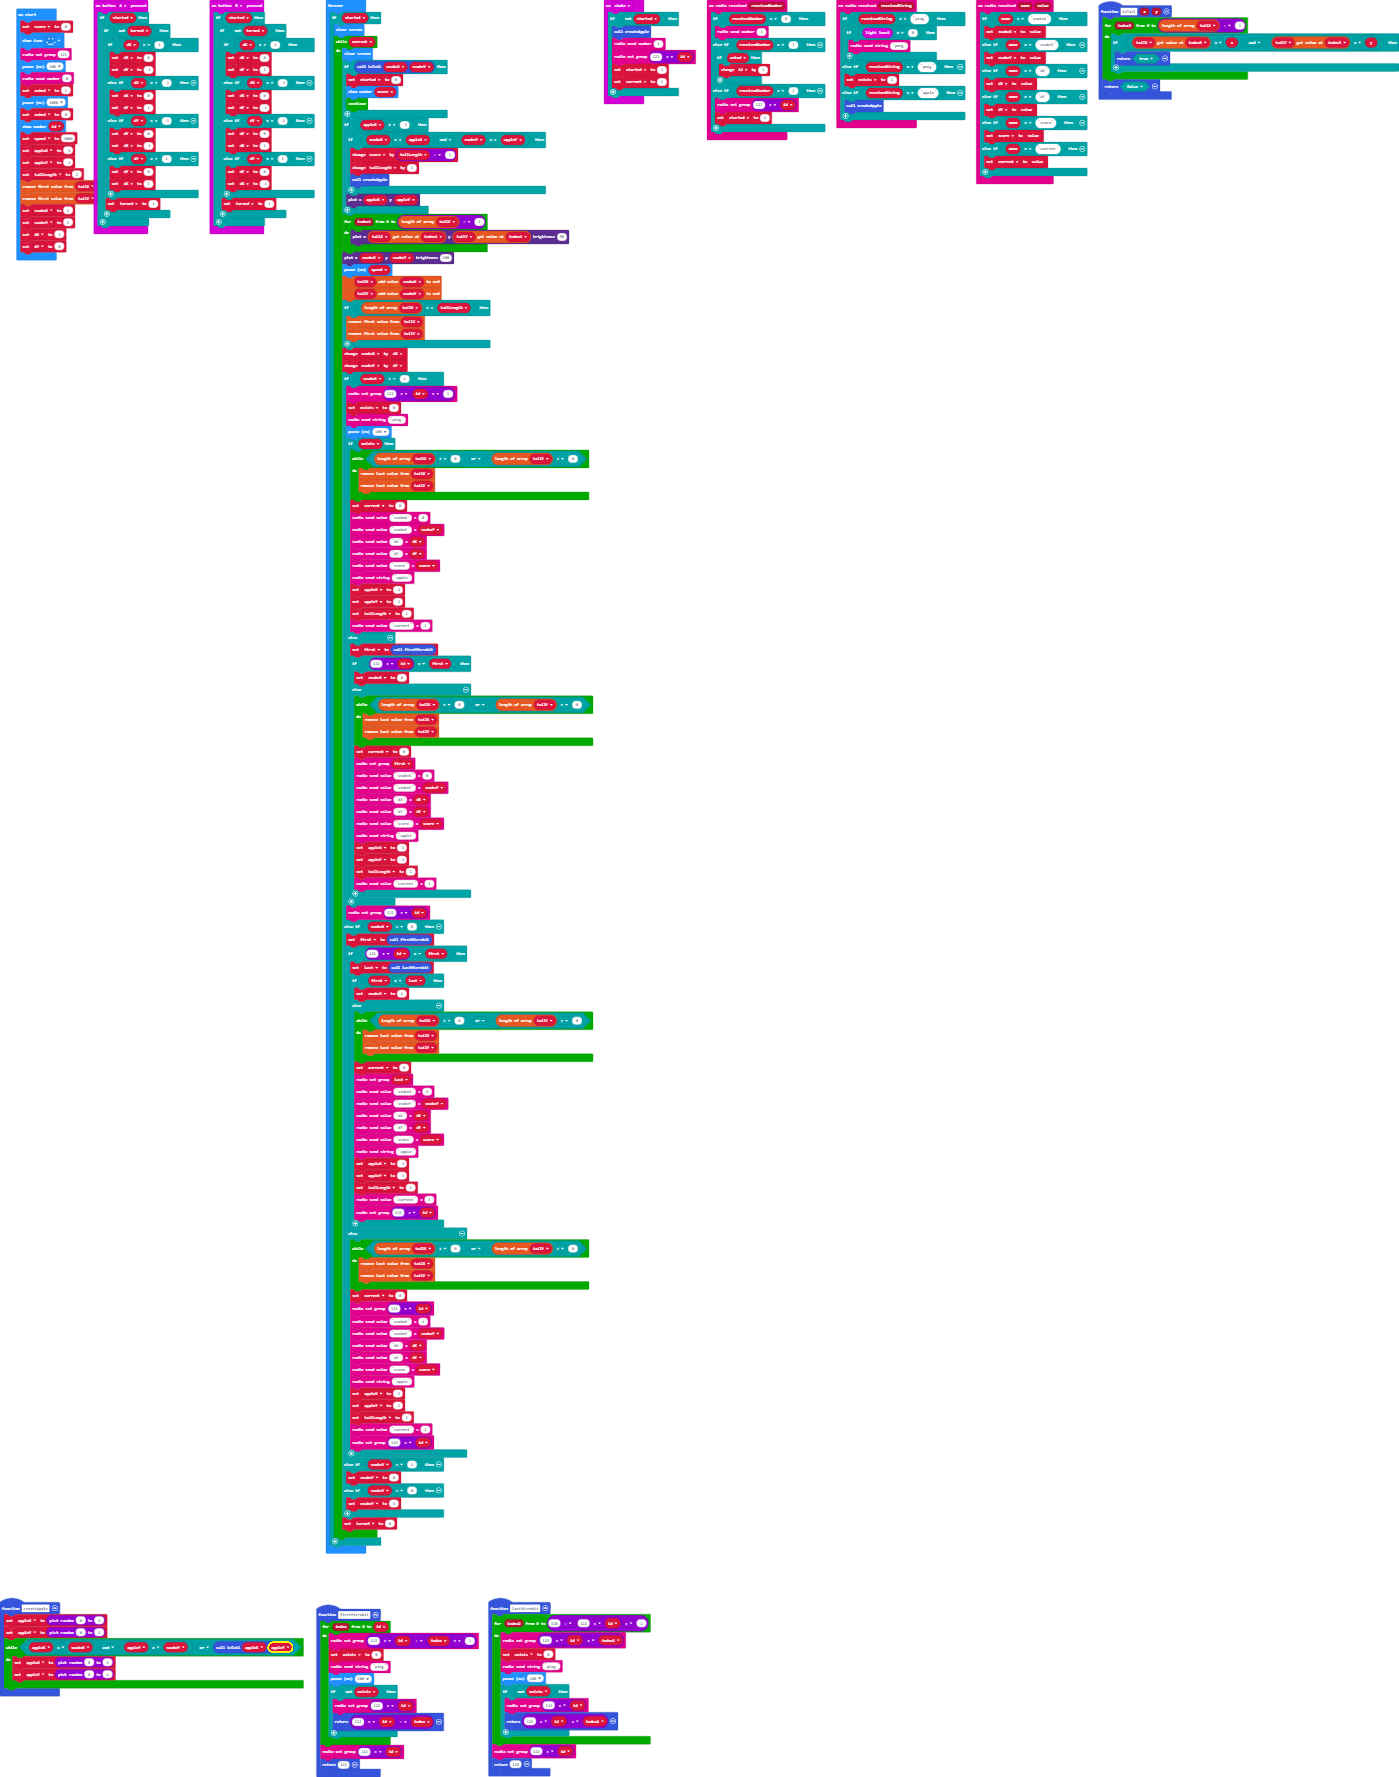
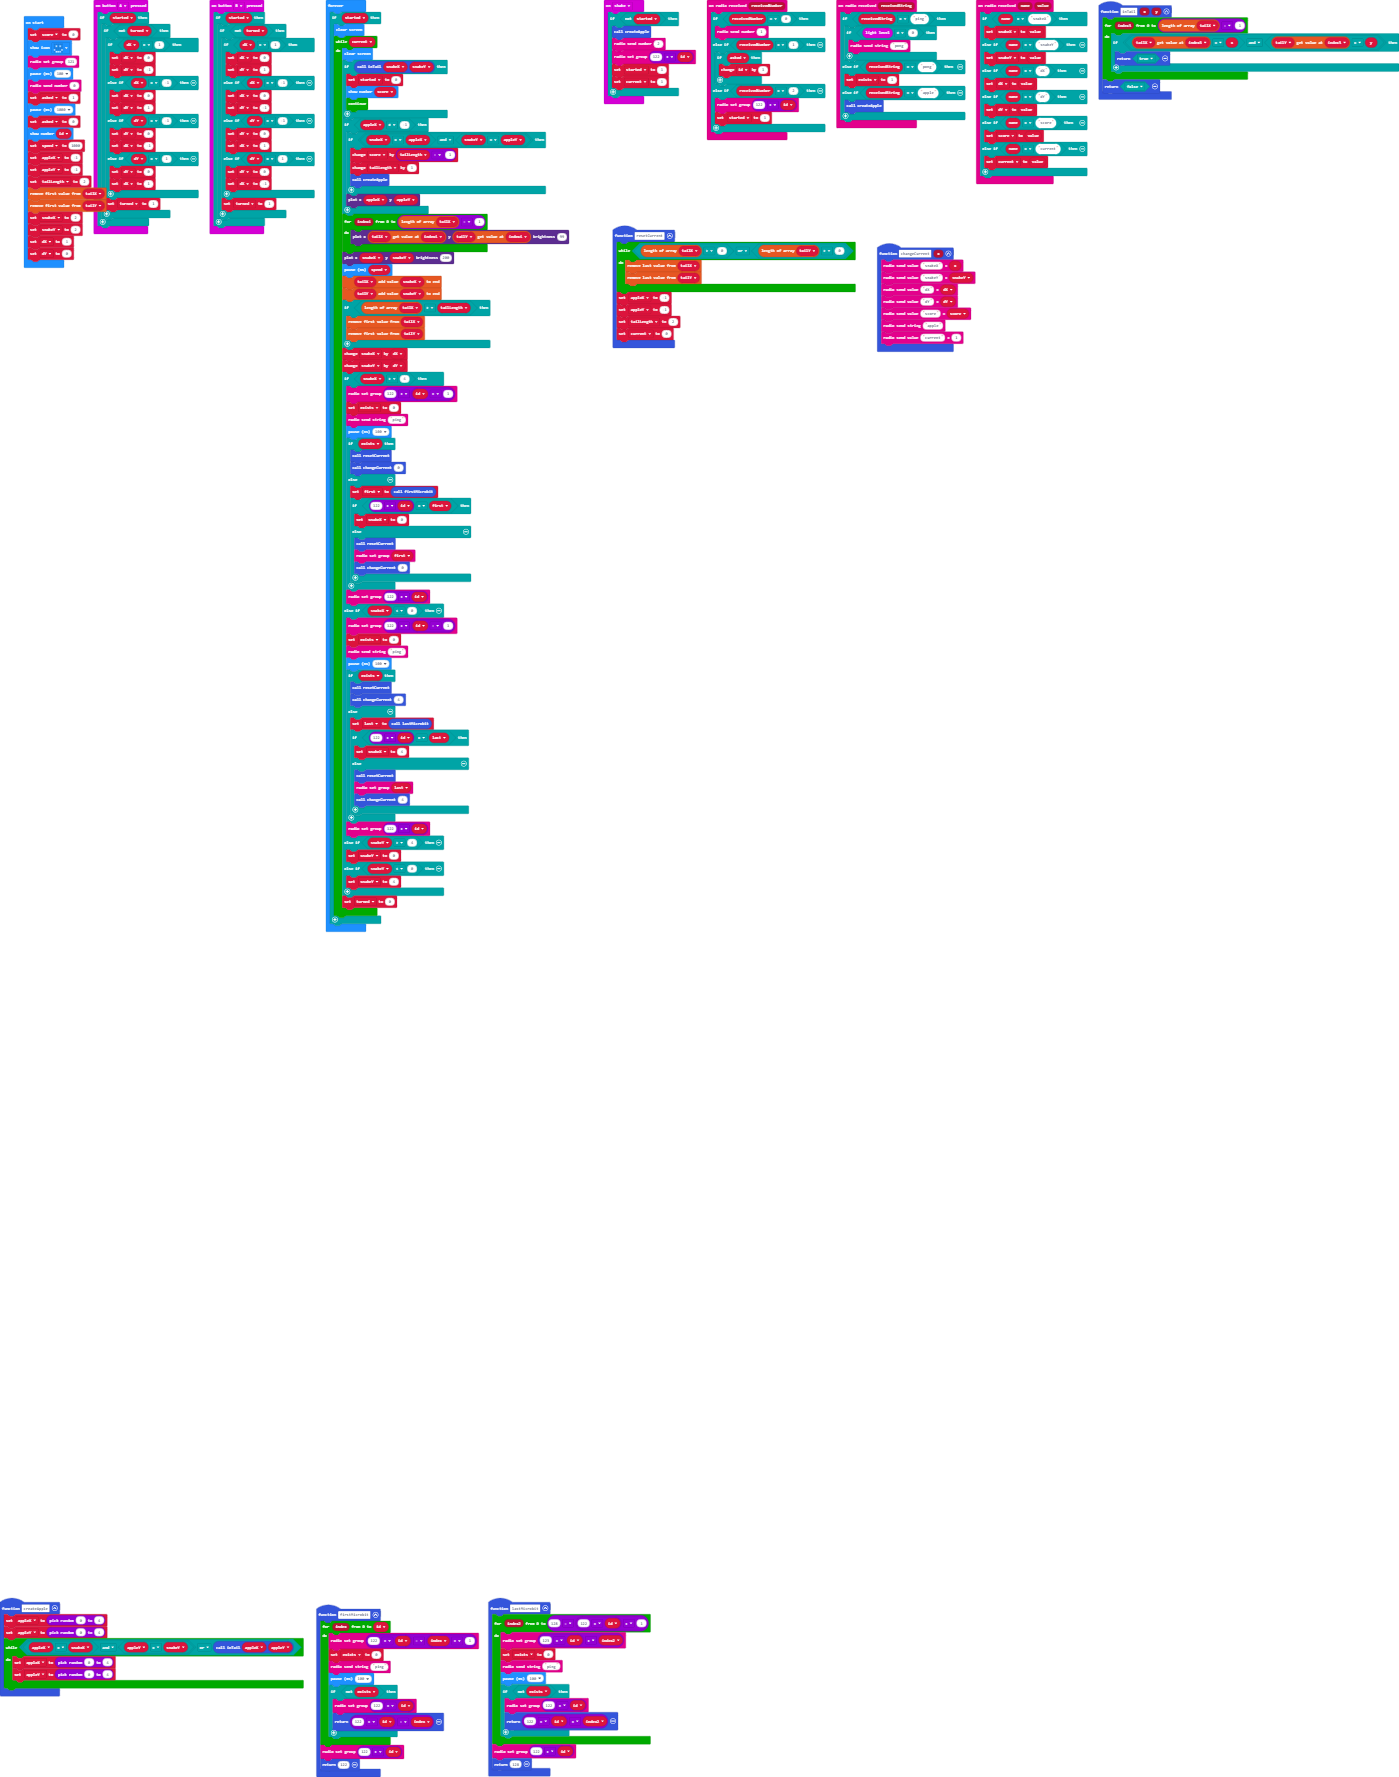
going to the left is now handled in a similar way as going to the right + more functions to improve readability

Changed region(s): [[0.2152, 0.2476, 0.4303, 0.8976], [0.4303, 0.1238, 0.7069, 0.2167], [0.0, 0.0, 0.0922, 0.1548]]

diff --git a/main.ts b/main.ts
@@ -1,7 +1,3 @@
-enum RadioMessage {
-    message1 = 49434,
-    start = 56380
-}
 radio.onReceivedNumber(function (receivedNumber) {
     if (receivedNumber == 0) {
         radio.sendNumber(1)
@@ -14,6 +10,15 @@ radio.onReceivedNumber(function (receivedNumber) {
         started = 1
     }
 })
+function changeCurrent (x: number) {
+    radio.sendValue("snakeX", x)
+    radio.sendValue("snakeY", snakeY)
+    radio.sendValue("dX", dX)
+    radio.sendValue("dY", dY)
+    radio.sendValue("score", score)
+    radio.sendString("apple")
+    radio.sendValue("current", 1)
+}
 input.onButtonPressed(Button.A, function () {
     if (started) {
         if (!(turned)) {
@@ -47,6 +52,16 @@ function firstMicrobit () {
     }
     radio.setGroup(122 + id)
     return 122
+}
+function resetCurrent () {
+    while (tailX.length > 0 || tailY.length > 0) {
+        tailX.pop()
+        tailY.pop()
+    }
+    appleX = -1
+    appleY = -1
+    tailLength = 2
+    current = 0
 }
 function lastMicrobit () {
     for (let index2 = 0; index2 <= 128 - (122 + id + 1); index2++) {
@@ -145,6 +160,7 @@ let snakeY = 0
 let snakeX = 0
 let tailY: number[] = []
 let tailX: number[] = []
+let tailLength = 0
 let appleY = 0
 let appleX = 0
 let id = 0
@@ -162,7 +178,7 @@ basic.showNumber(id)
 let speed = 1000
 appleX = -1
 appleY = -1
-let tailLength = 2
+tailLength = 2
 tailX.shift()
 tailY.shift()
 snakeX = 2
@@ -206,89 +222,38 @@ basic.forever(function () {
                 radio.sendString("ping")
                 basic.pause(100)
                 if (exists) {
-                    while (tailX.length > 0 || tailY.length > 0) {
-                        tailX.pop()
-                        tailY.pop()
-                    }
-                    current = 0
-                    radio.sendValue("snakeX", 0)
-                    radio.sendValue("snakeY", snakeY)
-                    radio.sendValue("dX", dX)
-                    radio.sendValue("dY", dY)
-                    radio.sendValue("score", score)
-                    radio.sendString("apple")
-                    appleX = -1
-                    appleY = -1
-                    tailLength = 2
-                    radio.sendValue("current", 1)
+                    resetCurrent()
+                    changeCurrent(0)
                 } else {
                     first = firstMicrobit()
                     if (122 + id == first) {
                         snakeX = 0
                     } else {
-                        while (tailX.length > 0 || tailY.length > 0) {
-                            tailX.pop()
-                            tailY.pop()
-                        }
-                        current = 0
+                        resetCurrent()
                         radio.setGroup(first)
-                        radio.sendValue("snakeX", 0)
-                        radio.sendValue("snakeY", snakeY)
-                        radio.sendValue("dX", dX)
-                        radio.sendValue("dY", dY)
-                        radio.sendValue("score", score)
-                        radio.sendString("apple")
-                        appleX = -1
-                        appleY = -1
-                        tailLength = 2
-                        radio.sendValue("current", 1)
+                        changeCurrent(0)
                     }
                 }
                 radio.setGroup(122 + id)
             } else if (snakeX < 0) {
-                first = firstMicrobit()
-                if (122 + id == first) {
+                radio.setGroup(122 + (id - 1))
+                exists = 0
+                radio.sendString("ping")
+                basic.pause(100)
+                if (exists) {
+                    resetCurrent()
+                    changeCurrent(4)
+                } else {
                     last = lastMicrobit()
-                    if (first == last) {
+                    if (122 + id == last) {
                         snakeX = 4
                     } else {
-                        while (tailX.length > 0 || tailY.length > 0) {
-                            tailX.pop()
-                            tailY.pop()
-                        }
-                        current = 0
+                        resetCurrent()
                         radio.setGroup(last)
-                        radio.sendValue("snakeX", 4)
-                        radio.sendValue("snakeY", snakeY)
-                        radio.sendValue("dX", dX)
-                        radio.sendValue("dY", dY)
-                        radio.sendValue("score", score)
-                        radio.sendString("apple")
-                        appleX = -1
-                        appleY = -1
-                        tailLength = 2
-                        radio.sendValue("current", 1)
-                        radio.setGroup(122 + id)
+                        changeCurrent(4)
                     }
-                } else {
-                    while (tailX.length > 0 || tailY.length > 0) {
-                        tailX.pop()
-                        tailY.pop()
-                    }
-                    current = 0
-                    radio.setGroup(121 + id)
-                    radio.sendValue("snakeX", 4)
-                    radio.sendValue("snakeY", snakeY)
-                    radio.sendValue("dX", dX)
-                    radio.sendValue("dY", dY)
-                    radio.sendValue("score", score)
-                    radio.sendString("apple")
-                    appleX = -1
-                    appleY = -1
-                    tailLength = 2
-                    radio.sendValue("current", 1)
-                    radio.setGroup(122 + id)
                 }
+                radio.setGroup(122 + id)
             } else if (snakeY > 4) {
                 snakeY = 0
             } else if (snakeY < 0) {
